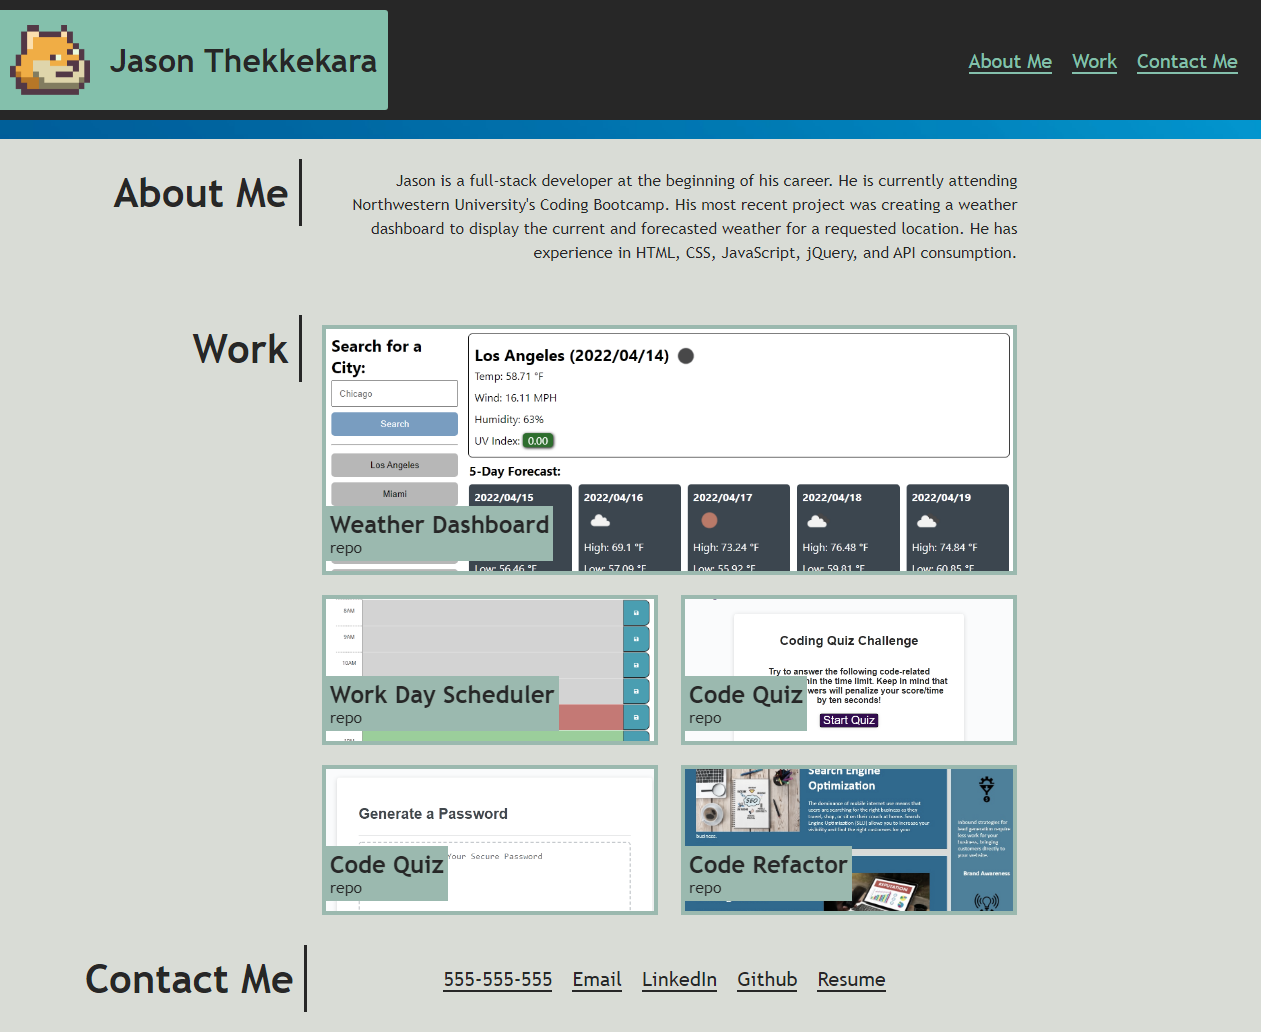
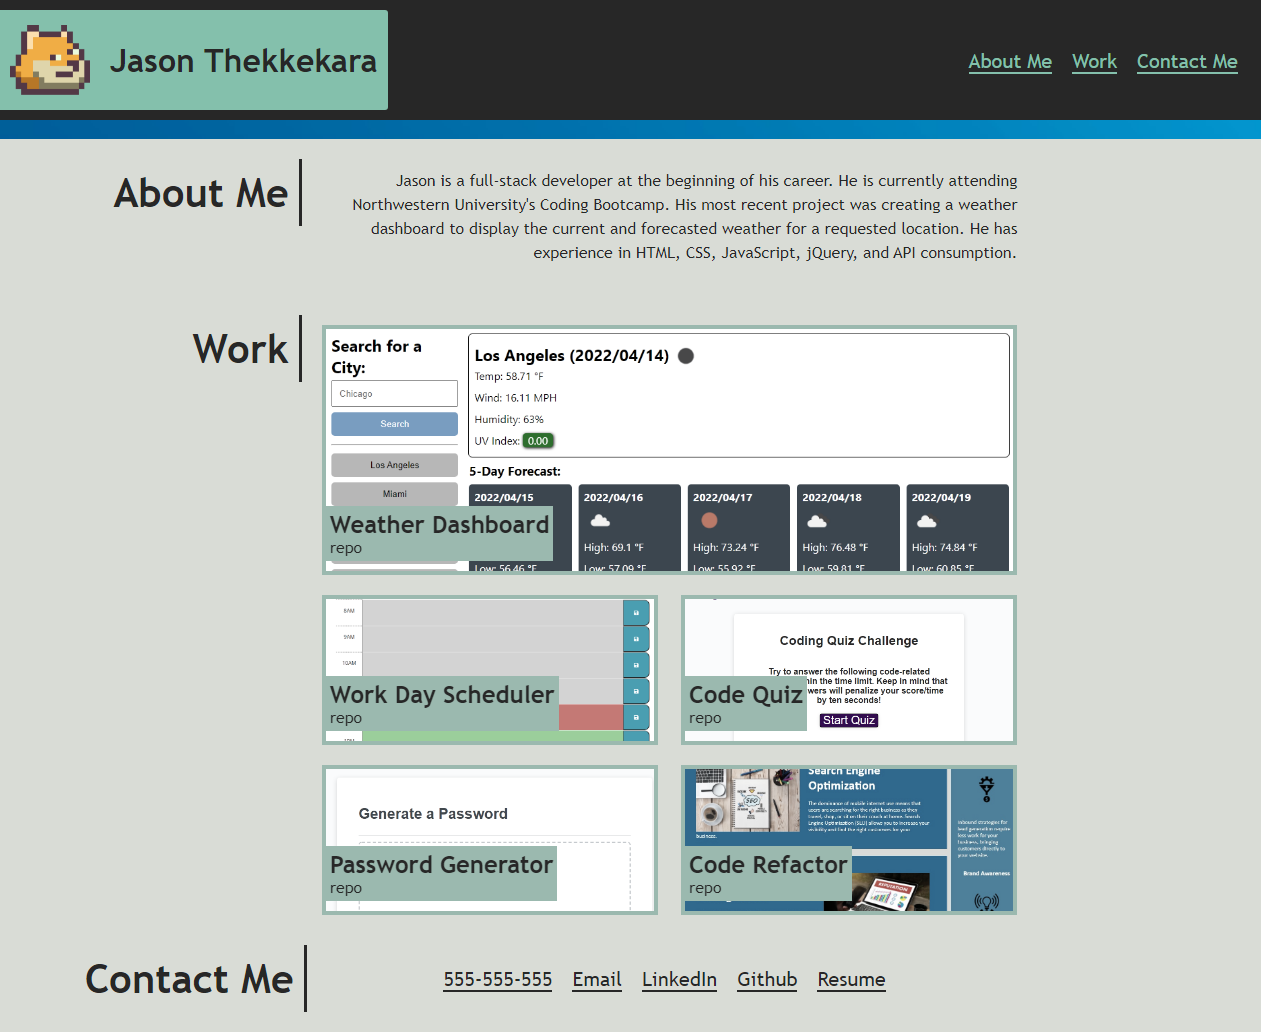
correct typo

Changed region(s): [[0.2784, 0.8062, 0.4639, 0.8992]]

diff --git a/index.html b/index.html
@@ -94,7 +94,7 @@
           <div class="card-caption">
             <h2>
               <a href="https://nearcatch.github.io/nu-hw-03-password-generator/"
-                >Code Quiz</a
+                >Password Generator</a
               >
             </h2>
             <a href="https://github.com/nearcatch/nu-hw-03-password-generator">repo</a>
